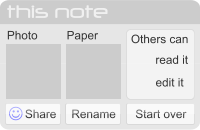
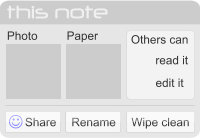
easier to see the pen style now

diff --git a/app/public/styles/notex.css b/app/public/styles/notex.css
@@ -154,7 +154,7 @@ img {
   top: 170px;
   left: 13px;
   width: 200px;
-  height: 130px;
+  height: 138px;
 }
 
 #notebox #photo {
@@ -194,7 +194,7 @@ img {
 
 #notelist {
   position: absolute;
-  top: 312px;
+  top: 320px;
   left: 13px;
   width: 200px;
 }

diff --git a/app/views/en/layouts/notepad.html.php b/app/views/en/layouts/notepad.html.php
@@ -19,19 +19,19 @@
   <div id="selectfont"></div>
   <img src="/images/penbox.png" id="styleimg" width="200" height="82" usemap="#penmap" alt="penbox" />
   <map name="penmap">
-    <area shape="rect" coords="4,28,27,52" onclick="notex.penbox.set_color('black', 4, 28)" alt="black" />
-    <area shape="rect" coords="28,28,51,52" onclick="notex.penbox.set_color('#333', 28, 28)" alt="slate gray" />
-    <area shape="rect" coords="52,28,75,52" onclick="notex.penbox.set_color('#666', 52, 28)" alt="steel gray" />
-    <area shape="rect" coords="76,28,99,52" onclick="notex.penbox.set_color('#80007e', 76, 28)" alt="deep purple" />
-    <area shape="rect" coords="100,28,123,52" onclick="notex.penbox.set_color('#008001', 100, 28)" alt="forest green" />
-    <area shape="rect" coords="123,28,146,52" onclick="notex.penbox.set_color('#0003ff', 123, 28)" alt="aqua blue" />
-    <area shape="rect" coords="147,28,170,52" onclick="notex.penbox.set_color('#ff00fc', 147, 28)" alt="pink kiss" />
-    <area shape="rect" coords="171,28,194,52" onclick="notex.penbox.set_color('red', 171, 28)" alt="red alert" />
+    <area shape="rect" coords="4,29,27,52" onclick="notex.penbox.set_color('black', 4, 28)" alt="black" />
+    <area shape="rect" coords="28,29,51,52" onclick="notex.penbox.set_color('#333', 28, 28)" alt="slate gray" />
+    <area shape="rect" coords="52,29,75,52" onclick="notex.penbox.set_color('#666', 52, 28)" alt="steel gray" />
+    <area shape="rect" coords="76,29,99,52" onclick="notex.penbox.set_color('#80007e', 76, 28)" alt="deep purple" />
+    <area shape="rect" coords="100,29,123,52" onclick="notex.penbox.set_color('#008001', 100, 28)" alt="forest green" />
+    <area shape="rect" coords="123,29,146,52" onclick="notex.penbox.set_color('#0003ff', 123, 28)" alt="aqua blue" />
+    <area shape="rect" coords="147,29,170,52" onclick="notex.penbox.set_color('#ff00fc', 147, 28)" alt="pink kiss" />
+    <area shape="rect" coords="171,29,194,52" onclick="notex.penbox.set_color('red', 171, 28)" alt="red alert" />
 
-    <area shape="rect" coords="4,56,51,78" onclick="notex.penbox.set_font('sans', 4, 56)" alt="sans serif" />
-    <area shape="rect" coords="53,56,100,78" onclick="notex.penbox.set_font('serif', 53, 56)" alt="serif" />
-    <area shape="rect" coords="101,56,147,78" onclick="notex.penbox.set_font('mono', 101, 56)" alt="mono" />
-    <area shape="rect" coords="149,56,196,78" onclick="notex.penbox.set_font('script', 149, 56)" alt="script" />
+    <area shape="rect" coords="4,56,51,78" onclick="notex.penbox.set_font('sans', 4, 55)" alt="sans serif" />
+    <area shape="rect" coords="53,56,100,78" onclick="notex.penbox.set_font('serif', 53, 55)" alt="serif" />
+    <area shape="rect" coords="101,56,147,78" onclick="notex.penbox.set_font('mono', 101, 55)" alt="mono" />
+    <area shape="rect" coords="149,56,196,78" onclick="notex.penbox.set_font('script', 149, 55)" alt="script" />
   </map>
 </div>
 <div id="notebox">
@@ -39,7 +39,7 @@
   <div id="paper" onclick="alert('paper')"><img src="/images/nothing.gif" alt="paper" /></div>
   <div id="canread" onclick="alert('canread')"></div>
   <div id="canedit" onclick="alert('canedit')"></div>
-  <img src="/images/notebox.png" id="styleimg" width="200" height="130" usemap="#notemap" alt="notebox" />
+  <img src="/images/notebox.png" id="styleimg" width="200" height="138" usemap="#notemap" alt="notebox" />
   <map name="notemap">
   </map>
 </div>
